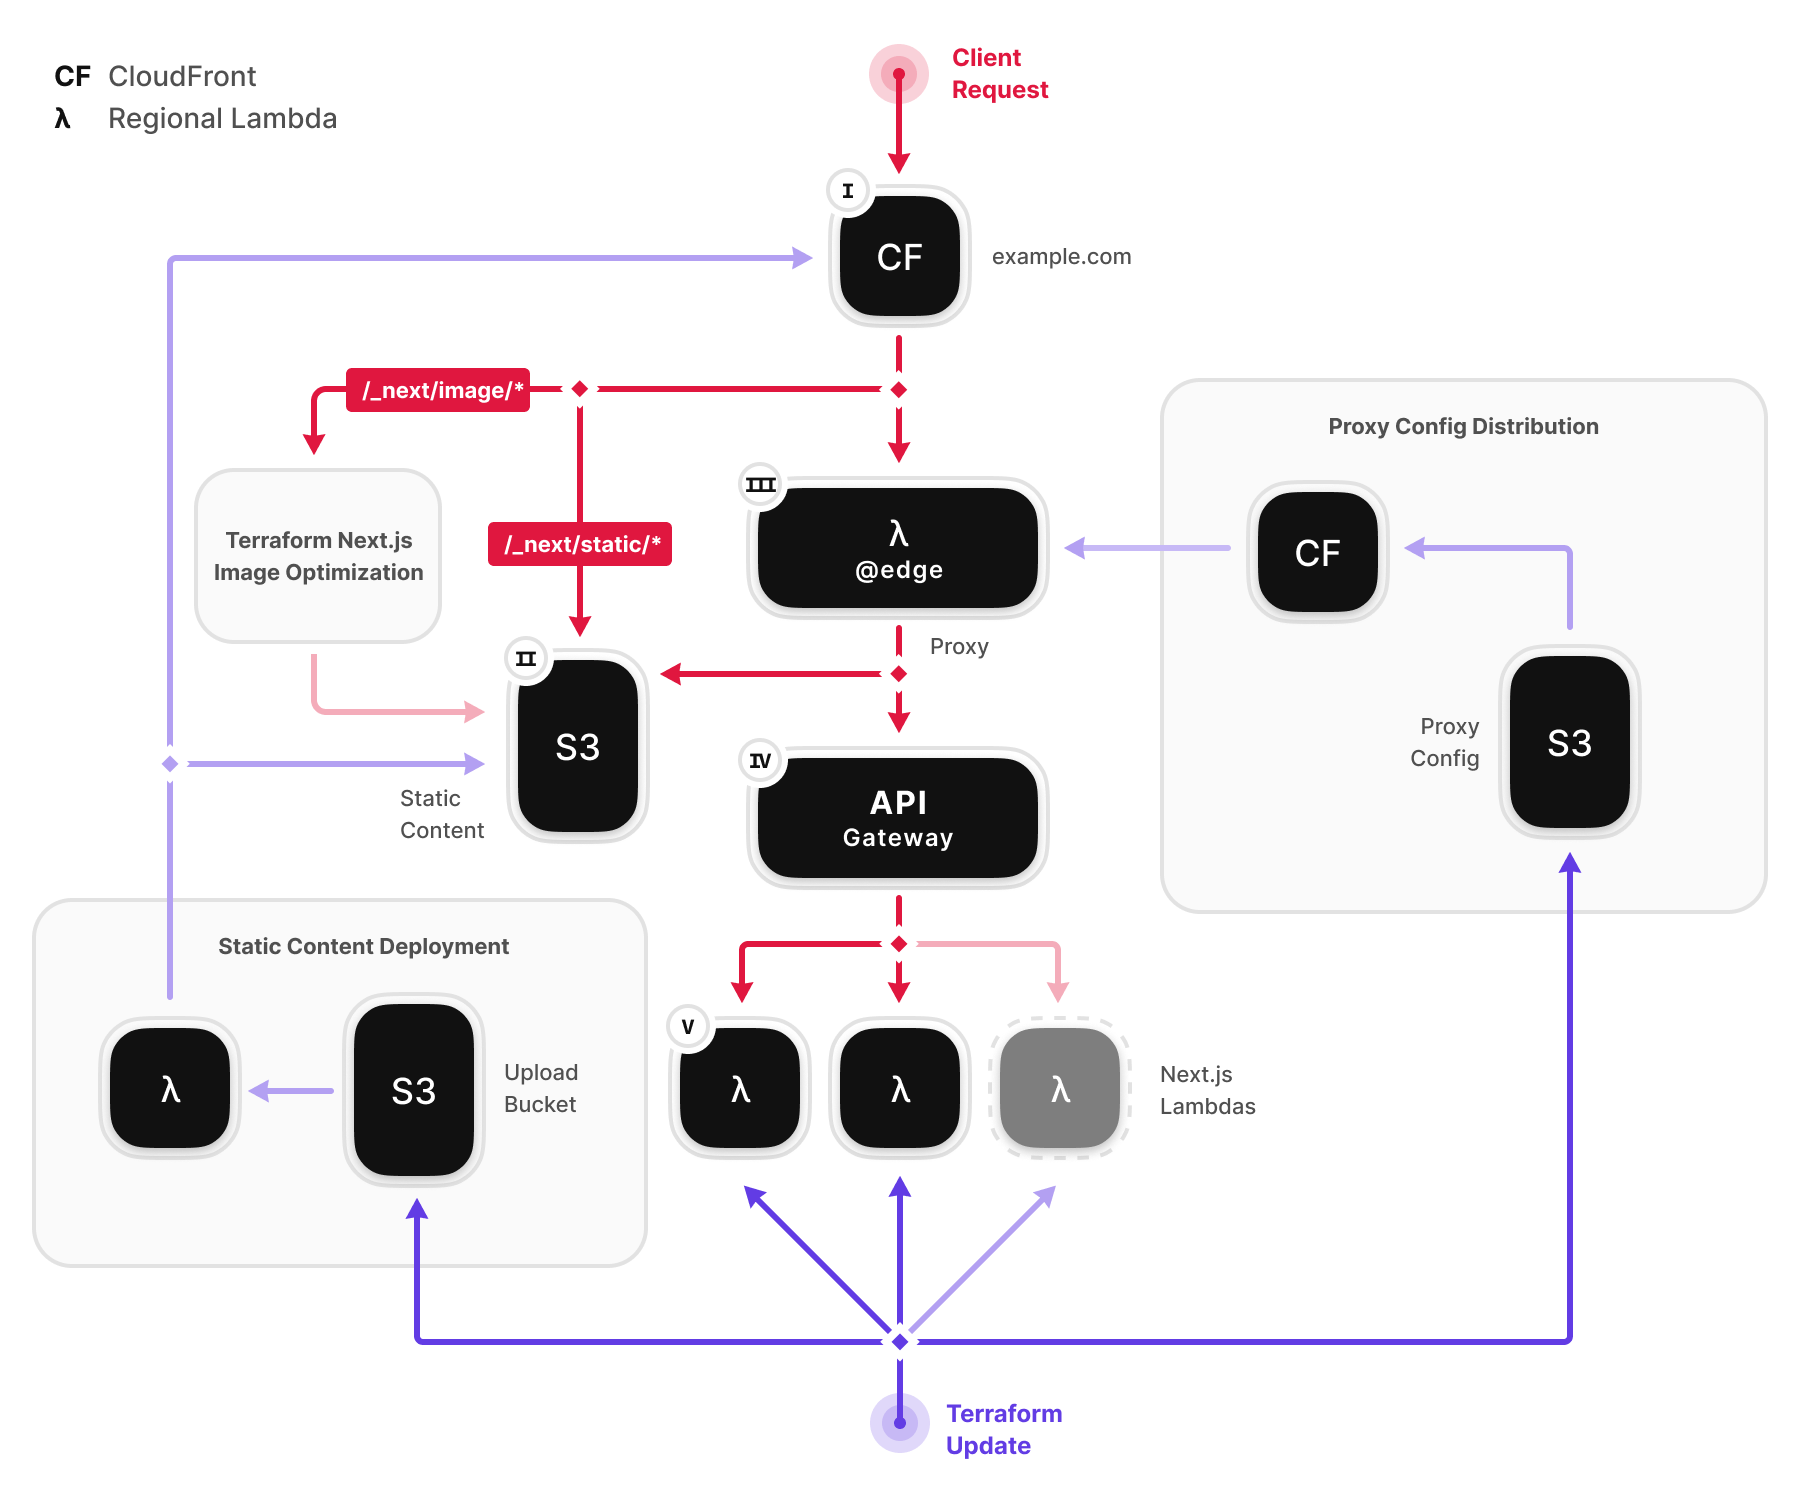
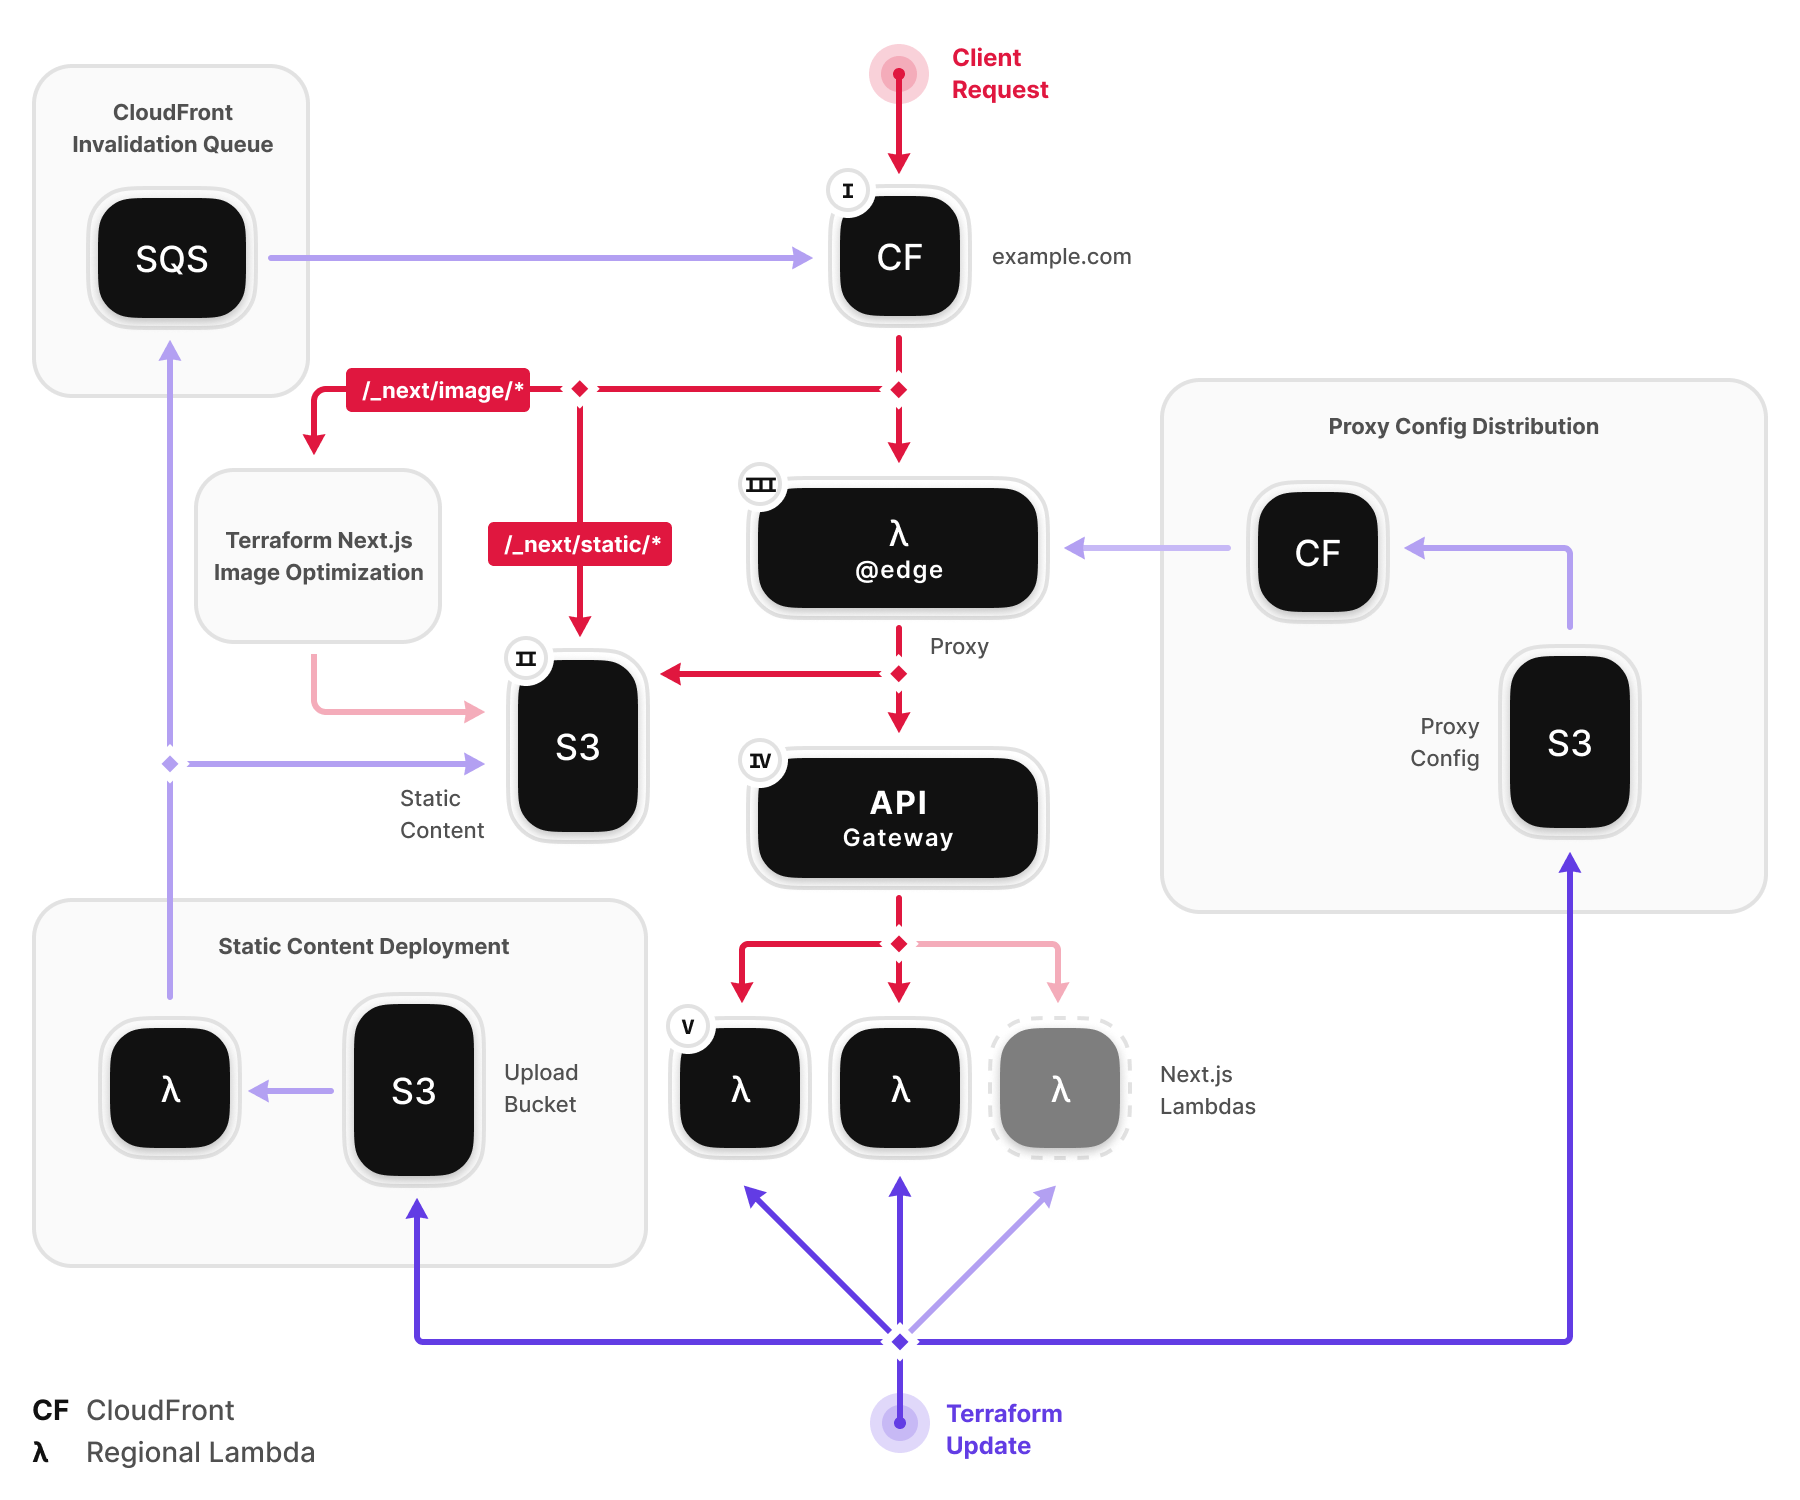
docs: Update architecture

Changed region(s): [[0.0311, 0.0307, 0.1867, 0.2453], [0.0, 0.92, 0.1867, 0.9813]]

diff --git a/README.md b/README.md
@@ -64,6 +64,13 @@ The Next.js Terraform module is designed as a full stack AWS app. It relies on m
 
   This is a second CloudFront distribution that serves a special JSON file that the Proxy ([`III`](#III-lambda-edge-proxy)) fetches as configuration (Contains information about routes).
 
+- **CloudFront Invalidation Queue**
+
+  When updating the app, not the whole CloudFront cache gets invalidated to keep response times low for your customers.
+  Instead the paths that should be invalidated are calculated from the updated content.
+  Depending on the size of the application the paths to invalidate could exceed the [CloudFront limits](https://docs.aws.amazon.com/AmazonCloudFront/latest/DeveloperGuide/Invalidation.html#invalidation-specifying-objects%23InvalidationLimits) for one invalidation.
+  Therefore invalidations get splitted into chunks and then queued in SQS from where they are sequentially sent to CloudFront.
+
 ## Usage
 
 ### Add to your Next.js project
